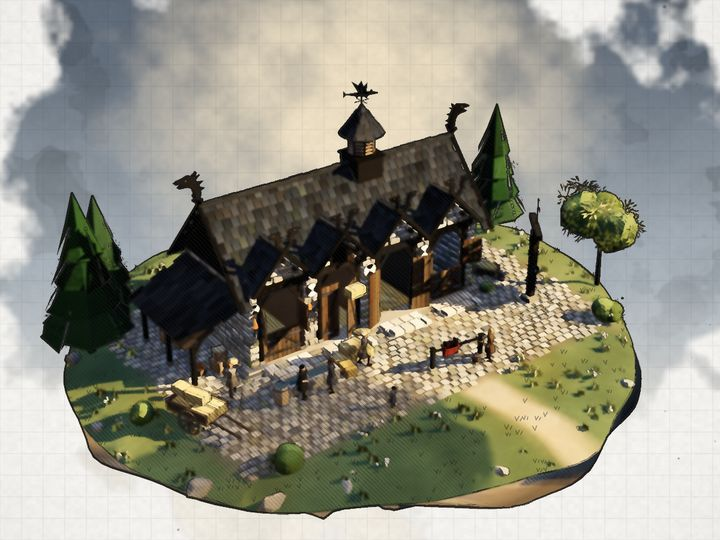
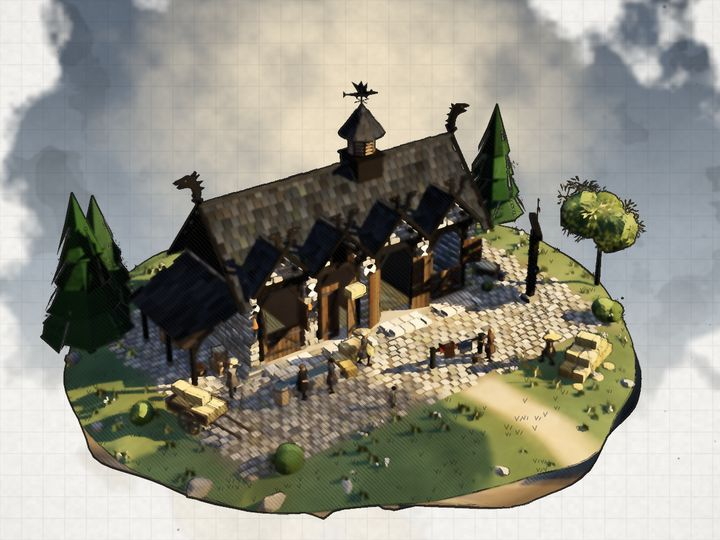
Stables: a real saddle and a folded blanket on the rail, bales on the green
The saddle and blanket on the hitching rail were boxes and read as a red
crate. The saddle is now the saddlery's own: a leather seat dipping between
cantle and pommel on a red pad, flaps down each side, stirrups and a girth.
Beside it a blue-grey wool blanket with two pale stripes is folded over the
rail. The lawn to the right of the yard, where a dragon used to lie, had
nothing on it; a stack of hay bales stands there now with loose hay and a
fork, and a second stable hand carries an armful in from it. The picture is
repainted.

Claude-Session: https://claude.ai/code/session_01JzR8QyEk5gWZG5LC4qWwJy

diff --git a/public/kit/builds/stables.js b/public/kit/builds/stables.js
@@ -99,19 +99,76 @@
     b.box(x, y, z, w, h, d, { c: b.pick(HAY), m: M.straw, bevel: 0.09, ry: ry, ao: 0.35 });
     [-0.28, 0.28].forEach(function (f) { var c = Math.cos(ry), s = Math.sin(ry); b.box(x + f * w * c, y - 0.005, z - f * w * s, 0.04, h + 0.02, d + 0.02, { c: '#6a5940', m: M.rope, ry: ry, bevel: 0.01, ao: 0.2 }); });
   }
-  // a hitching rail: two posts and a rail along local x, L long, a saddle and its blanket over the rail
+  // a curved band (an arc between radii r1 and r2, angles a0..a1 in the XY plane) run len along z
+  function stablesArc(b, x, y, z, r1, r2, a0, a1, len, o) {
+    var sh = new T.Shape(), n = 12, i, a;
+    for (i = 0; i <= n; i++) { a = a0 + (a1 - a0) * i / n; if (i === 0) sh.moveTo(Math.cos(a) * r2, Math.sin(a) * r2); else sh.lineTo(Math.cos(a) * r2, Math.sin(a) * r2); }
+    for (i = n; i >= 0; i--) { a = a0 + (a1 - a0) * i / n; sh.lineTo(Math.cos(a) * r1, Math.sin(a) * r1); }
+    var g = new T.ExtrudeGeometry(sh, { depth: len, bevelEnabled: false, curveSegments: 1 }); g.translate(0, 0, -len / 2); g.deleteAttribute('uv');
+    g.computeVertexNormals();
+    return b.addGeo(g, Object.assign({ m: KIT.M.wood }, o, { x: x, y: y, z: z }));
+  }
+  // a riding saddle (as the saddlery makes them) sitting over a rounded top at (x, y, z), radius R, its length along
+  // local z (front +z): the pad under it, the leather seat dipping between a raised cantle and the pommel, flaps down
+  // each side, stirrups on their straps and the girth hanging free
+  function stablesSaddle(b, x, y, z, o) {
+    o = o || {}; var M = KIT.M, R = o.R || 0.2, lc = o.c || '#2a211b', lc2 = o.c2 || '#45352a', iron = '#8f8a80', drop = o.drop === undefined ? 1 : o.drop;
+    b.push(x, y - R, z, o.ry || 0);
+    stablesArc(b, 0, 0, 0, R, R + 0.022, 0.12, Math.PI - 0.12, 0.84, { c: o.blanket || '#7a3b2c', m: M.cloth, ao: 0.15 });
+    stablesArc(b, 0, 0, 0, R + 0.02, R + 0.075, 0.5, Math.PI - 0.5, 0.62, { c: lc, m: M.wood, ao: 0.2 });
+    stablesArc(b, 0, 0, 0.02, R + 0.07, R + 0.1, 1.0, Math.PI - 1.0, 0.36, { c: lc2, m: M.wood, ao: 0.2 });
+    stablesArc(b, 0, 0, -0.28, R + 0.06, R + 0.22, 1.08, Math.PI - 1.08, 0.07, { c: lc, m: M.wood, ao: 0.1, rx: -0.15 });
+    stablesArc(b, 0, 0, 0.29, R + 0.06, R + 0.14, 1.2, Math.PI - 1.2, 0.08, { c: lc2, m: M.wood, ao: 0.1, rx: 0.1 });
+    [-1, 1].forEach(function (sd) {
+      var a = sd > 0 ? 0.5 : Math.PI - 0.5, ex = Math.cos(a) * (R + 0.05), ey = Math.sin(a) * (R + 0.05);
+      b.push(ex, ey, 0.0, 0); b.stack[b.stack.length - 1].multiply(new T.Matrix4().makeRotationZ(sd * 0.32));
+      b.box(sd * 0.012, -0.36, 0, 0.03, 0.38, 0.5, { c: lc, m: M.wood, bevel: 0.012, ao: 0.15 });
+      b.pop();
+      var sx = ex + sd * 0.16, sy = ey - 0.5 * drop;
+      b.beam([ex + sd * 0.05, ey - 0.08, 0.1], [sx, sy, 0.12], 0.018, { c: lc2, m: M.wood, r2: 0.006 });
+      b.addGeo(new T.TorusGeometry(0.07, 0.013, 4, 10), { x: sx, y: sy - 0.07, z: 0.12, ry: Math.PI / 2, sy: 0.85, c: iron, m: M.metal, ao: 0 });
+      b.box(sx, sy - 0.15, 0.12, 0.05, 0.025, 0.12, { c: iron, m: M.metal, bevel: 0.005 });
+    });
+    b.beam([Math.cos(0.5) * (R + 0.04), Math.sin(0.5) * (R + 0.04) - 0.2, -0.12], [R + 0.16, -0.55 * drop, -0.14], 0.026, { c: lc2, m: M.wood, r2: 0.007 });
+    b.pop();
+  }
+  // a wool blanket folded over a round rail whose top is at y (the rail along local x), centred at x and w long: it
+  // hangs hangF down the +z side and hangB down the -z side, its hem flaring a little and rippling, with two stripes
+  // of o.band across it near the hem on both sides
+  function stablesBlanket(b, x, y, w, hangF, hangB, o) {
+    o = o || {}; var M = KIT.M, R = o.R || 0.08, nA = 3, nH = 6, nu = 8, yc = y + 0.015 - R, ph = x * 4.1;
+    function at(q, sd, t, out) {
+      if (t <= 0) { var th = (1 + t) * Math.PI / 2 * sd; return [x + q * w / 2, yc + (R + out) * Math.cos(th), (R + out) * Math.sin(th)]; }
+      var d = t * (sd > 0 ? hangF : hangB) * (1 + 0.05 * Math.sin(q * 4 + ph + sd));
+      return [x + q * w / 2, yc - d, sd * (R + out + 0.05 * d + 0.05 * d * d + 0.022 * Math.sin(q * 7 + ph + sd * 2) * t)];
+    }
+    // the fold over the rail (t from -1 at the top to 0 where it leaves the rail), then the hang (t from 0 to 1)
+    var g = new T.PlaneGeometry(1, 1, nu, 2 * (nA + nH)), p = g.attributes.position, i;
+    for (i = 0; i < p.count; i++) {
+      var q = (i % (nu + 1)) / nu * 2 - 1, k = Math.floor(i / (nu + 1)) - nA - nH, sd = k < 0 ? -1 : 1, m = Math.abs(k);
+      var v = at(q, sd, m <= nA ? m / nA - 1 : (m - nA) / nH, 0); p.setXYZ(i, v[0], v[1], v[2]);
+    }
+    g.computeVertexNormals();
+    b.addGeo(g, { c: o.c || '#4f5b66', m: M.cloth, bucket: 'cloth', ao: 0.15, jit: 0.02, vary: 0.06 });
+    if (!o.band) return;
+    [-1, 1].forEach(function (sd) {
+      [[0.6, 0.72], [0.8, 0.88]].forEach(function (tb) {
+        var gb = new T.PlaneGeometry(1, 1, nu, 1), pb = gb.attributes.position;
+        for (var j = 0; j < pb.count; j++) { var v = at((j % (nu + 1)) / nu * 2 - 1, sd, j > nu ? tb[1] : tb[0], 0.008); pb.setXYZ(j, v[0], v[1], v[2]); }
+        gb.computeVertexNormals();
+        b.addGeo(gb, { c: o.band, m: M.cloth, bucket: 'cloth', ao: 0, jit: 0.01, vary: 0.02 });
+      });
+    });
+  }
+  // a hitching rail: two posts and a rail along local x, L long, a saddle and a folded blanket over the rail
   function stablesRail(b, x, z, ry, L) {
     var M = KIT.M;
     b.push(x, 0, z, ry);
     [-1, 1].forEach(function (sd) { b.box(sd * L / 2, 0, 0, 0.36, 0.14, 0.36, { c: 'stoneDark', m: M.stone, bevel: 0.03 }); b.post(sd * L / 2, 0.1, 0, 0.09, 1.05, { c: 'beam' }); b.box(sd * L / 2, 1.13, 0, 0.24, 0.06, 0.24, { c: 'beam', m: M.wood, bevel: 0.02 }); });
     b.beam([-L / 2 - 0.12, 1.0, 0], [L / 2 + 0.12, 1.0, 0], 0.06, { c: 'beam', round: true, seg: 7 });
-    // the blanket hangs both sides of the rail, the saddle sits over it
-    b.box(-0.35, 0.58, 0, 0.75, 0.46, 0.2, { c: '#7a3b2c', m: M.cloth, bevel: 0.04, ao: 0.2 });
-    b.box(-0.35, 1.0, 0, 0.78, 0.06, 0.48, { c: '#7a3b2c', m: M.cloth, bevel: 0.02, ao: 0.1 });
-    b.box(-0.35, 1.06, 0, 0.6, 0.12, 0.42, { c: '#3a2c22', m: M.wood, bevel: 0.05, taper: 0.85 });
-    b.box(-0.63, 1.12, 0, 0.1, 0.18, 0.36, { c: '#33271e', m: M.wood, bevel: 0.03, rz: -0.25 });
-    b.box(-0.06, 1.14, 0, 0.1, 0.22, 0.34, { c: '#33271e', m: M.wood, bevel: 0.03, rz: 0.2 });
-    [-1, 1].forEach(function (sd) { b.beam([-0.3, 1.04, sd * 0.24], [-0.3, 0.55, sd * 0.27], 0.012, { c: '#2a221b', m: M.wood, round: true, seg: 4 }); b.box(-0.3, 0.45, sd * 0.27, 0.12, 0.1, 0.03, { c: '#8f8a80', m: M.metal, bevel: 0.005 }); });
+    // the saddle astride the rail on its red pad, and a striped wool blanket folded over the rail beside it
+    stablesSaddle(b, -0.55, 1.075, 0, { R: 0.16, ry: Math.PI / 2, drop: 0.75 });
+    stablesBlanket(b, 0.42, 1.06, 0.66, 0.46, 0.4, { c: '#5d6a73', band: '#d8ccb4' });
     // a halter rope looped round the far post and a bucket under it
     b.addGeo(new T.TorusGeometry(0.14, 0.022, 5, 12), { x: L / 2, y: 0.85, z: 0, rx: Math.PI / 2, c: 'rope', m: M.rope });
     b.beam([L / 2 + 0.05, 0.85, 0.12], [L / 2 + 0.2, 0.25, 0.3], 0.018, { c: 'rope', m: M.rope, round: true, seg: 4 });
@@ -463,8 +520,19 @@
         stablesFork(b, x0 - 2.35, z1 + 2.7, { ry: 0.6, lean: 0.25 });
       });
       b.unit(function () {
-        // the hitching rail out in the yard, a saddle and its blanket over it
+        // the hitching rail out in the yard, a saddle and a blanket over it
         stablesRail(b, 1.6, 5.4, -0.12, 2.6);
+      });
+      b.unit(function () {
+        // a stack of bales on the green past the yard, three by two, two by two and one across the top, loose hay
+        // at its foot and a fork leant on it
+        b.push(6.4, 0, 8.9, 0.35);
+        [-1.08, 0, 1.08].forEach(function (lx) { [-0.32, 0.32].forEach(function (lz) { stablesBale(b, lx + b.j(0.03), 0, lz, { ry: b.j(0.04) }); }); });
+        [-0.54, 0.54].forEach(function (lx) { [-0.32, 0.32].forEach(function (lz) { stablesBale(b, lx + b.j(0.04), 0.5, lz + b.j(0.02), { ry: b.j(0.05) }); }); });
+        stablesBale(b, 0.05, 1.0, 0, { ry: Math.PI / 2 + 0.06 });
+        [[-1.9, 0.5], [1.85, -0.3], [0.4, 0.95], [-0.7, 0.9]].forEach(function (q) { b.ball(q[0], 0, q[1], 0.22 + b.r() * 0.1, { c: b.pick(HAY), m: M.straw, sy: 0.3, detail: 1, ao: 0.3 }); });
+        stablesFork(b, -1.1, 0.95, { ry: 0.1, lean: -0.3 });
+        b.pop();
       });
       b.unit(function () {
         // a barrow of straw and a fork at the last stall
@@ -524,6 +592,11 @@
         b.figure(-5.7, 3.7, { role: 'villager', pose: 'talk', ry: 0.6, cape: '#1f1e1c', c: '#3b3a38' });
         b.figure(-4.4, 4.0, { role: 'villager', pose: 'stand', ry: -2.2, beard: true, c: '#5c5e62' });
         b.figure(lx0 + 1.3, z1 + 0.9, { role: 'villager', pose: 'carry', ry: -0.4, c: '#8a857c' });
+        // a second hand walking an armful of hay in from the stack on the green
+        var sh2 = [5.0, 7.9, Math.atan2(1.6 - 5.0, 5.4 - 7.9)];
+        b.figure(sh2[0], sh2[1], { role: 'villager', pose: 'carry', ry: sh2[2], c: '#7a6a55' });
+        var hp2 = stablesBy(sh2[0], sh2[1], sh2[2], 0.3, 1.6, -0.05);
+        b.ball(hp2[0], hp2[1], hp2[2], 0.3, { c: '#bba574', m: M.straw, sx: 0.75, sy: 0.6, sz: 1.6, ry: sh2[2] + 0.15, detail: 1, ao: 0.25 });
       });
     }
   });
